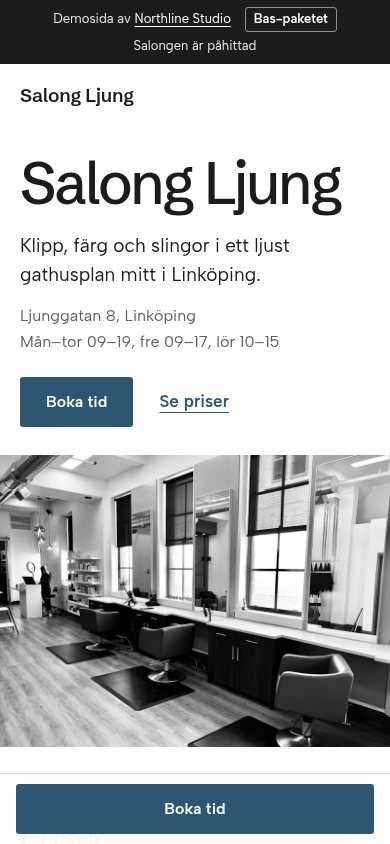
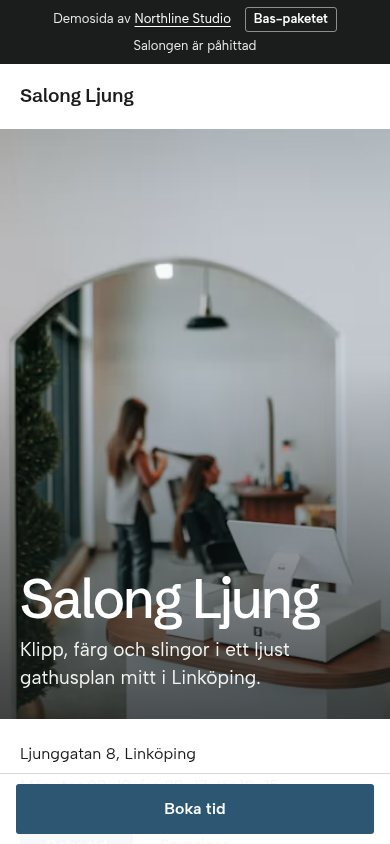
Startsida: trovärdig före-sida, före/efter sida vid sida, renare priskort
- "Före" är nu en realistisk äldre datorsida (sidhuvud, flikmeny, foto,
  öppettider i spalt, PDF-prislista, gästbok) som skalas ner i mobilen,
  precis som en icke-mobilanpassad sida ser ut.
- Före och efter står bredvid varandra även i mobilen.
- Priskorten har enkla rader i stället för bockar.
- Ny skärmdump av Salong Ljung med den nya heron.

Claude-Session: https://claude.ai/code/session_01JRvTWJf2wrS2rCx45NQxPy

diff --git a/styles.css b/styles.css
@@ -104,7 +104,7 @@ p { max-width: 62ch; }
 /* ---- Telefon och laptop (ramar runt riktiga skärmdumpar) */
 .phone {
   position: relative; display: block;
-  width: min(300px, 78vw); aspect-ratio: 390 / 844;
+  width: min(270px, 70vw); aspect-ratio: 390 / 844;
   padding: 10px; border-radius: 46px;
   background: #16181c;
   box-shadow: 0 0 0 1px #2c3038, 0 40px 90px -30px rgba(0, 0, 0, 0.8);
@@ -133,25 +133,36 @@ a.phone:hover { box-shadow: 0 0 0 1px #2a2d33, 0 0 0 5px rgba(95, 212, 189, 0.35
 .lead { margin-top: 16px; font-size: 1.125rem; color: var(--muted); }
 
 /* ---- Före och efter */
-.compare { display: grid; gap: 40px; }
+.compare { display: grid; grid-template-columns: 1fr 1fr; gap: 14px; align-items: start; }
 .compare__side { display: grid; justify-items: center; gap: 18px; }
-.compare figcaption { font-size: 0.9375rem; color: var(--muted); max-width: 34ch; text-align: center; }
+.compare figcaption { font-size: 0.875rem; line-height: 1.5; color: var(--muted); max-width: 34ch; }
 .compare figcaption strong { color: var(--ink); }
-.phone--static { width: min(270px, 72vw); }
+.phone--static { width: 100%; max-width: 270px; padding: 6px; border-radius: 26px; }
+.phone--static .phone__screen { border-radius: 21px; }
 
-/* Illustration av en gammal salongssida */
-.old-site {
-  width: min(270px, 72vw); aspect-ratio: 390 / 844; overflow: hidden;
-  padding: 16px 12px; border: 10px solid #2c3038; border-radius: 40px;
-  background: #efe9dc; color: #222; text-align: center;
-  font: 11px/1.35 "Times New Roman", Times, serif;
-  filter: saturate(0.85);
-}
-.old-site__top { margin-top: 26px; padding: 8px 4px; background: #7a3b8f; color: #ffef6b; font: bold 13px "Comic Sans MS", "Trebuchet MS", sans-serif; letter-spacing: 0.02em; }
-.old-site__menu { margin: 8px 0; color: #1d33c7; font-size: 9px; }
-.old-site__img { height: 92px; margin: 10px auto; width: 70%; background: repeating-linear-gradient(45deg, #b7a98d 0 6px, #c7b99d 6px 12px); border: 2px ridge #888; }
-.old-site__p { margin: 8px auto; font-size: 9.5px; color: #333; max-width: none; }
-.old-site__pdf { margin: 12px auto 0; display: inline-block; padding: 4px 8px; border: 1px dashed #999; font: 9px "Courier New", monospace; color: #1d33c7; text-decoration: underline; }
+/* Illustration: äldre datorsida, utzoomad i mobilen (skalas i script.js) */
+.old-screen { background: #e9e4da; }
+.old-page { position: absolute; top: 0; left: 0; display: block; width: 980px; transform-origin: 0 0; transform: scale(var(--old-scale, 0.255)); background: #e9e4da; color: #333; font: 15px/1.5 Verdana, Geneva, sans-serif; text-align: left; }
+.old-page b { font-weight: bold; }
+.old-page__head { display: flex; justify-content: space-between; align-items: center; padding: 30px 40px; background: #5b2340; color: #f3e3c3; }
+.old-page__logo { font: italic 52px Georgia, "Times New Roman", serif; }
+.old-page__tel { font-size: 18px; }
+.old-page__nav { display: flex; background: linear-gradient(#d9d2c4, #b9b0a0); border-bottom: 1px solid #8f8676; }
+.old-page__nav b { padding: 14px 26px; border-right: 1px solid #a49b8b; color: #3b2a32; font-size: 16px; }
+.old-page__body { display: flex; gap: 24px; padding: 24px 40px; }
+.old-page__side { display: block; width: 220px; flex-shrink: 0; padding: 16px; background: #f6f2ea; border: 1px solid #c9bfae; font-size: 14px; }
+.old-page__side b { display: block; color: #5b2340; margin-bottom: 6px; }
+.old-page__main { display: block; flex: 1; font-size: 15px; }
+.old-page__main img { position: static; width: 100%; height: 260px; object-fit: cover; margin-bottom: 18px; border: 4px solid #fff; box-shadow: 0 1px 4px rgba(0, 0, 0, 0.3); filter: saturate(0.7) contrast(0.9); }
+.old-page__h { display: block; font: 30px Georgia, serif; color: #5b2340; margin-bottom: 10px; }
+.old-page__pdf { display: block; margin-top: 16px; color: #1a3bb3; text-decoration: underline; }
+.old-page__cols { display: flex; gap: 24px; padding: 0 40px 24px; }
+.old-page__cols > span, .old-page__guest, .old-page__map { display: block; flex: 1; padding: 16px; background: #f6f2ea; border: 1px solid #c9bfae; font-size: 14px; }
+.old-page__cols b, .old-page__guest b, .old-page__map b { display: block; font: 22px Georgia, serif; color: #5b2340; margin-bottom: 8px; }
+.old-page__guest, .old-page__map { margin: 0 40px 24px; }
+.old-page__guest u { color: #1a3bb3; }
+.old-page__mapbox { display: block; height: 220px; margin-top: 8px; padding: 90px 20px; background: #d8d2c6; color: #6d665c; text-align: center; }
+.old-page__foot { display: block; margin-top: 20px; padding: 18px 40px; background: #5b2340; color: #d8c6a8; font-size: 13px; }
 
 .gains { display: grid; gap: 28px; margin-top: 64px; }
 .gains li { padding-top: 18px; border-top: 1px solid var(--ink); }
@@ -194,9 +205,8 @@ a.phone:hover { box-shadow: 0 0 0 1px #2a2d33, 0 0 0 5px rgba(95, 212, 189, 0.35
 .plan__price { display: flex; align-items: baseline; flex-wrap: wrap; gap: 4px 12px; margin-top: 26px; padding-bottom: 22px; border-bottom: 1px solid var(--line); }
 .plan__amount { font-family: var(--head); font-weight: 600; font-size: 2.75rem; letter-spacing: -0.03em; line-height: 1; }
 .plan__once { color: var(--muted); font-size: 0.9375rem; }
-.plan__list { margin: 22px 0; display: grid; gap: 10px; }
-.plan__list li { position: relative; padding-left: 26px; }
-.plan__list li::before { content: ""; position: absolute; left: 2px; top: 0.5em; width: 12px; height: 7px; border-left: 2px solid var(--glow); border-bottom: 2px solid var(--glow); transform: rotate(-45deg); }
+.plan__list { margin: 8px 0 24px; display: grid; }
+.plan__list li { padding: 10px 0; border-bottom: 1px solid var(--line); }
 .plan__monthly { margin-top: auto; padding: 16px 0 22px; border-top: 1px solid var(--line); color: var(--muted); font-size: 0.9375rem; display: grid; gap: 2px; }
 .plan__monthly strong { color: var(--ink); font-size: 1.0625rem; }
 .plan__terms { color: var(--glow); font-weight: 600; }

diff --git a/index.html b/index.html
@@ -38,7 +38,7 @@
   <link rel="preconnect" href="https://fonts.gstatic.com" crossorigin>
   <link rel="stylesheet" href="https://fonts.googleapis.com/css2?family=Familjen+Grotesk:wght@500;600;700&family=Hanken+Grotesk:wght@400;500;600&display=swap">
 
-  <link rel="stylesheet" href="styles.css?v=202610192230">
+  <link rel="stylesheet" href="styles.css?v=202610202000">
 
   <!-- Strukturerad data: hjälper Google förstå att detta är ett företag -->
   <script type="application/ld+json">
@@ -130,15 +130,33 @@
         <div class="compare">
           <figure class="compare__side">
             <!-- Illustration av en typisk äldre salongssida, ritad i HTML -->
-            <div class="old-site" aria-hidden="true">
-              <div class="old-site__top">VÄLKOMMEN TILL SALONGEN!!</div>
-              <div class="old-site__menu"><u>Hem</u> | <u>Om oss</u> | <u>Priser (PDF)</u> | <u>Gästbok</u> | <u>Kontakt</u></div>
-              <div class="old-site__img"></div>
-              <p class="old-site__p">Vi är en salong med lång erfarenhet. Ring oss för att boka tid! Klicka <u>här</u> för att ladda ner vår prislista.</p>
-              <p class="old-site__p">Senast uppdaterad: 2014</p>
-              <div class="old-site__pdf">prislista_2014_ny.pdf</div>
+            <!-- Illustration: en äldre salongssida byggd för dator, som den ser ut i en mobil (utzoomad) -->
+            <div class="phone phone--static" aria-hidden="true">
+              <span class="phone__screen old-screen">
+                <span class="old-page">
+                  <span class="old-page__head"><span class="old-page__logo">Salongen</span><span class="old-page__tel">Tidsbokning: ring 0XX-XX XX XX</span></span>
+                  <span class="old-page__nav"><b>Hem</b><b>Om oss</b><b>Behandlingar</b><b>Prislista</b><b>Galleri</b><b>Kontakt</b></span>
+                  <span class="old-page__body">
+                    <span class="old-page__side"><b>Öppettider</b>Mån–Fre 9.00–18.00<br>Lör 10.00–14.00<br><br><b>Hitta hit</b>Se karta under Kontakt</span>
+                    <span class="old-page__main">
+                      <img src="https://images.unsplash.com/photo-1521590832167-7bcbfaa6381f?auto=format&fit=crop&w=600&h=260&q=55" width="600" height="260" alt="" loading="lazy">
+                      <b class="old-page__h">Välkommen till vår salong!</b>
+                      Hos oss får du en personlig behandling av utbildad personal. Vi erbjuder klippning, färgning, slingor, permanent och uppsättningar för alla tillfällen. Varmt välkomna att boka tid hos oss!
+                      <span class="old-page__pdf">Ladda ner vår prislista (PDF, 2,4 MB)</span>
+                    </span>
+                  </span>
+                  <span class="old-page__cols">
+                    <span><b>Nyheter</b>Nu har vi fått in nya produkter från våra leverantörer. Välkommen in och titta!<br><br><i>Uppdaterad 2016</i></span>
+                    <span><b>Erbjudande</b>Klipp + färg för endast 899:-. Gäller vardagar t.o.m. 31/5. Ring för mer info.</span>
+                    <span><b>Presentkort</b>Köp presentkort i salongen. Passar till alla tillfällen!</span>
+                  </span>
+                  <span class="old-page__guest"><b>Gästbok</b>Skriv en hälsning i vår gästbok! <u>Klicka här</u></span>
+                  <span class="old-page__map"><b>Hitta hit</b><span class="old-page__mapbox">Karta laddas inte. Klicka här för vägbeskrivning.</span></span>
+                  <span class="old-page__foot">&copy; 2014 Salongen | Senast uppdaterad 12/3 2016</span>
+                </span>
+              </span>
             </div>
-            <figcaption><strong>Före.</strong> En typisk äldre salongssida: liten text, prislista som PDF och ingen bokningsknapp. (Illustration)</figcaption>
+            <figcaption><strong>Före.</strong> En äldre sida byggd för dator: i mobilen blir allt pyttelitet, priserna ligger i en PDF och man måste ringa för att boka. (Illustration)</figcaption>
           </figure>
           <figure class="compare__side compare__side--after">
             <div class="phone phone--static" aria-hidden="true">
@@ -146,7 +164,7 @@
                 <img src="assets/demo-ljung-mobil.jpg" width="390" height="844" alt="" loading="lazy">
               </span>
             </div>
-            <figcaption><strong>Efter.</strong> Salong Ljung, vår Bas-demo: namn, adress, öppettider och bokning på första skärmen.</figcaption>
+            <figcaption><strong>Efter.</strong> Salong Ljung, vår Bas-demo: salongen i bild, adressen och en bokningsknapp direkt på första skärmen.</figcaption>
           </figure>
         </div>
 
@@ -334,6 +352,6 @@
     </div>
   </footer>
 
-  <script src="script.js?v=202610192230"></script>
+  <script src="script.js?v=202610202000"></script>
 </body>
 </html>

diff --git a/script.js b/script.js
@@ -112,6 +112,19 @@
     new IntersectionObserver(function (e) { contactSeen = e[0].isIntersecting; updateSticky(); }, { threshold: 0.15 }).observe(contact);
   }
 
+  /* Före-illustrationen: en datorsida på 980 px som skalas ner i telefonen */
+  var oldScreen = document.querySelector(".old-screen");
+  if (oldScreen) {
+    var oldPage = oldScreen.querySelector(".old-page");
+    var fitOld = function () {
+      var scale = oldScreen.clientWidth / 980;
+      oldScreen.style.setProperty("--old-scale", scale);
+      oldPage.style.minHeight = Math.ceil(oldScreen.clientHeight / scale) + "px";
+    };
+    fitOld();
+    window.addEventListener("resize", fitOld);
+  }
+
   /* Årtalet i sidfoten */
   var year = document.getElementById("ar");
   if (year) year.textContent = new Date().getFullYear();
